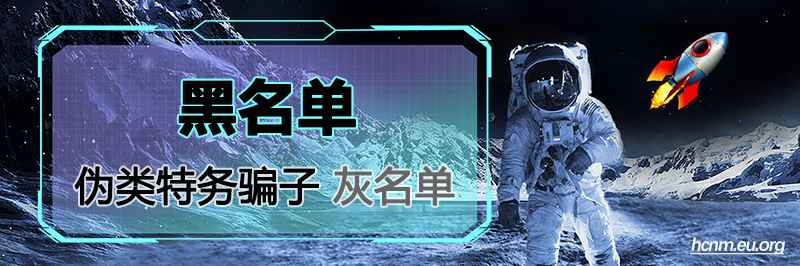
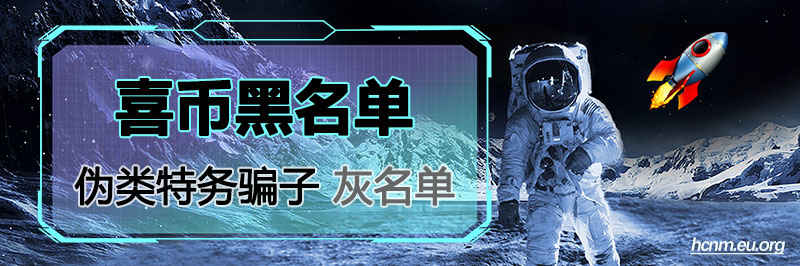
喜币黑名单

diff --git a/_posts/2022-07-31-黑名单.md b/_posts/2022-07-31-黑名单.md
@@ -1,14 +1,14 @@
 ---
-title: 【重磅】黑名单、伪类特务骗子、灰名单、精子卵子黑名单
+title: 【重磅】喜币黑名单、伪类特务骗子、灰名单、精子卵子黑名单
 author: hcntomoon
-categories: [我的黑名单]
-tags: [黑名单, 喜币, 喜币上月球]
+categories: [喜币黑名单]
+tags: [黑名单, 喜币, 喜币上月球, 喜币黑名单]
 pin: true
 ---
 
-![黑名单图片](/assets/images/about/黑名单.jpg "黑名单")
+![喜币黑名单图片](/assets/images/about/黑名单.jpg "喜币黑名单")
 
-> 为了维护世界的正义，为了防止世界被破坏，为了守护世界的和平，[喜币上月球(HCNtoMoon)网站](https://hcnm.eu.org)的㊙[黑名单系统](https://hcnm.eu.org/posts/%E9%BB%91%E5%90%8D%E5%8D%95/)于2022年7月31日正式上线！本文长期实时更新，记得收藏这份黑名单！
+> 为了维护世界的正义，为了防止世界被破坏，为了守护世界的和平，[喜币上月球(HCNtoMoon)网站](https://hcnm.eu.org)的㊙黑名单系统（简称**喜币黑名单**）于2022年7月31日正式上线！[喜币黑名单](https://hcnm.eu.org/posts/%E9%BB%91%E5%90%8D%E5%8D%95/)长期实时更新，记得收藏！
 
 <!--truncate-->
 
